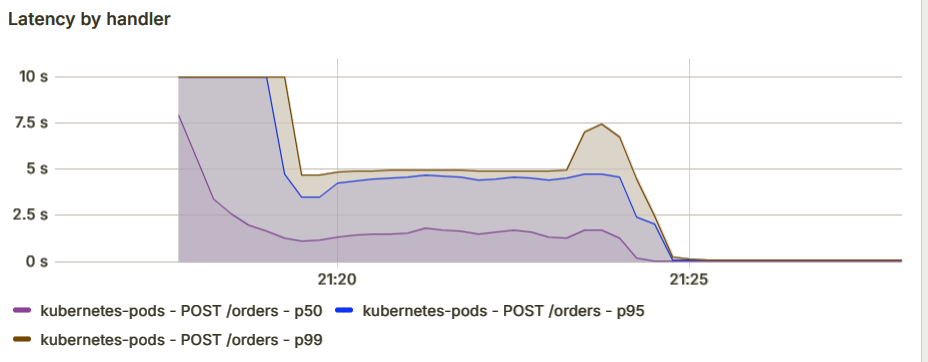
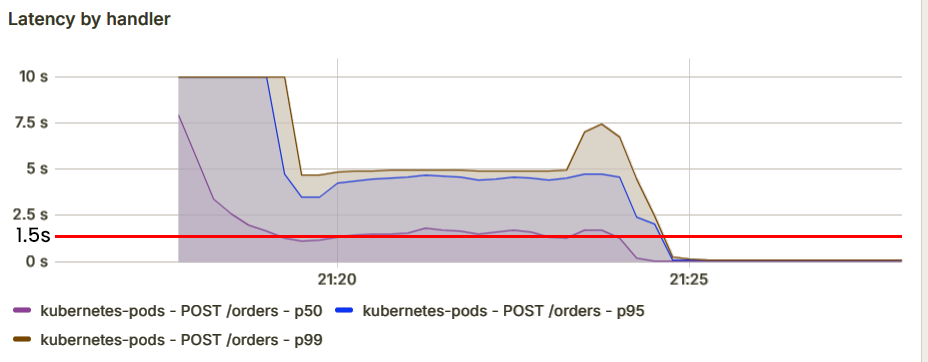
mantap

Changed region(s): [[0.0, 0.6381, 0.9688, 0.6685]]

diff --git a/document/src/chapters/chapter-4/analisis.tex b/document/src/chapters/chapter-4/analisis.tex
@@ -235,14 +235,7 @@ Kombinasi hal tersebut membuat \textit{cache hit} operasi ini rendah sehingga ti
 
 \subsection{Penggunaan Pengendalian Aliran}
 
-Gambar \ref{fig:latency-fc} dan Gambar \ref{fig:latency-nofc} menunjukkan perbedaan latensi pemrosesan antara sistem dengan pendendalian aliran dan tanpa pengendalian aliran. Saat berjalan dengan baik, latensi pemrosesan dengan pengendalian aliran dapat turun hingga ratusan milisekon.
-
-\begin{figure}[H]
-    \centering
-    \includegraphics[width=1\textwidth]{resources/chapter-4/latency-fc-pg-stress-0.png}
-    \caption{Latensi Pemrosesan dengan Pengendalian Aliran}
-    \label{fig:latency-fc}
-\end{figure}
+Gambar \ref{fig:latency-nofc} menunjukkan latensi pemrosesan pesanan sistem tanpa pengendalian aliran. Perhatikan garis berwarna ungu (dan garis merah). Rata-rata latensi operasi tersebut sekitar 1,5 detik.
 
 \begin{figure}[H]
     \centering
@@ -251,7 +244,16 @@ Gambar \ref{fig:latency-fc} dan Gambar \ref{fig:latency-nofc} menunjukkan perbed
     \label{fig:latency-nofc}
 \end{figure}
 
-Selanjutnya, perhatikan laju pemrosesan berdasarkan kode respons sebagaimana ditunjukkan pada Gambar \ref{fig:rps-fc-pg-stress-0} dan Gambar \ref{fig:rps-nofc-pg-stress-0}. Meskipun memiliki latensi yang lebih tinggi, laju pemrosesan puncak varian ini sama dengan laju pemrosesan puncak pada sistem referensi. Oleh karena itu, latensi yang tinggi tidak serta merta membuat laju pemrosesan lebih lambat.
+Selanutnya, Gambar \ref{fig:latency-fc} menunjukkan latensi pemrosesan pesanan sistem dengan pengendalian aliran. Saat berjalan baik (garis ungu landai), latensip emrosesan berada pada angka ratusan milisekon. Meskipun begitu, rata-rata latensi pemrosesan ini pada banyak waktu berada di atas 10 detik.
+
+\begin{figure}[H]
+    \centering
+    \includegraphics[width=1\textwidth]{resources/chapter-4/latency-fc-pg-stress-0.png}
+    \caption{Latensi Pemrosesan dengan Pengendalian Aliran}
+    \label{fig:latency-fc}
+\end{figure}
+
+Selanjutnya, perhatikan laju pemrosesan berdasarkan kode respons sebagaimana ditunjukkan pada Gambar \ref{fig:rps-fc-pg-stress-0} dan Gambar \ref{fig:rps-nofc-pg-stress-0}. Pada Gambar \ref{fig:rps-fc-pg-stress-0}, puncak laju pemrosesan adalah 550 rps (perhatikan puncak garis berwarna ungu). Pada Gambar \ref{fig:rps-nofc-pg-stress-0}, puncak laju pemrosesan adalah 570 rps (perhatikan puncak garis berwarna ungu). Meskipun memiliki latensi yang lebih tinggi, laju pemrosesan puncak varian ini sama dengan laju pemrosesan puncak pada sistem referensi. Oleh karena itu, latensi yang tinggi tidak serta merta membuat laju pemrosesan lebih lambat.
 
 \begin{figure}[H]
     \centering
@@ -294,23 +296,27 @@ Meskipun implementasi sistem antrean kurang optimal, terdapat beberapa hal posit
     \end{tabular}
 \end{table}
 
-Tidak ada perbedaan latensi pada operasi tulis. Meskipun begitu, latensi untuk \textit{lock} kursi pada varian dengan pengendalian aliran jauh lebih kecil. Selanjutnya, mari bandingkan latensi pemrosesan pesanan saat kode respons 409 berdasarkan Gambar \ref{fig:latency-by-code-nofc} dan Gambar \ref{fig:latency-by-code-fc}.
+Tidak ada perbedaan latensi pada operasi tulis (InsertOrder, InsertIssuedTiket, dan InsertInvoice). Meskipun begitu, latensi untuk \textit{lock} kursi (LockFreeStandingSeats) pada varian dengan pengendalian aliran jauh lebih kecil.
+
+Selanjutnya, mari bandingkan latensi pemrosesan pesanan saat kode respons 409 berdasarkan Gambar \ref{fig:latency-by-code-nofc} dan Gambar \ref{fig:latency-by-code-fc}.
 
 \begin{figure}[H]
     \centering
-    \includegraphics[width=0.7\textwidth]{resources/chapter-4/latency-by-code-nofc-pg-stress-0.png}
+    \includegraphics[width=1\textwidth]{resources/chapter-4/latency-by-code-nofc-pg-stress-0.png}
     \caption{Latensi Berdasarkan Status Kode tanpa Pengendalian Aliran}
     \label{fig:latency-by-code-nofc}
 \end{figure}
 
 \begin{figure}[H]
     \centering
-    \includegraphics[width=0.7\textwidth]{resources/chapter-4/latency-by-code-fc-pg-stress-0.png}
+    \includegraphics[width=1\textwidth]{resources/chapter-4/latency-by-code-fc-pg-stress-0.png}
     \caption{Latensi Berdasarkan Status Kode dengan Pengendalian Aliran}
     \label{fig:latency-by-code-fc}
 \end{figure}
 
-Efektivitas strategi penolakan lebih awal terlihat jelas saat membandingkan latensi untuk permintaan yang ditolak (kode status 409). Pada Gambar \ref{fig:latency-by-code-nofc} (tanpa pengendalian aliran), latensi untuk kode 409 (tumpang tindih dengan area abu-abu) berkisar antara 1-2 detik (1000-2000 ms). Sebaliknya, pada Gambar \ref{fig:latency-by-code-fc} (dengan pengendalian aliran), grafik menunjukkan bahwa latensi untuk kode 409 (garis biru pada legenda) secara konsisten berada di bawah 100 ms. Ini secara visual membuktikan bahwa permintaan yang ditakdirkan gagal dapat ditolak secara signifikan lebih cepat, sebelum membebani basis data.
+Gambar \ref{fig:latency-by-code-nofc} menunjukkan rata-rata latensi permintaan pesanan pada varian tanpa pengendalian aliran yang ditolak (kode status 409) sebesar 2 detik. Selanjutnya, Gambar \ref{fig:latency-by-code-fc} menunjukkan rata-rata ltensi permintaan pada varian dengan pengenalian aliran yang ditolak (kode status 409) sebesar 50 milisekon hingga 100 milisekon (\textit{most of the time}).
+
+Efektivitas strategi penolakan lebih awal terlihat jelas saat membandingkan latensi untuk permintaan yang ditolak (kode status 409). Perbedaan latensi ini membuktikan bahwa permintaan yang ditakdirkan gagal dapat ditolak secara signifikan lebih cepat, sebelum membebani basis data.
 
 Hal ini menunjukkan perbedaan yang signifikan karena pesanan yang pada akhirnya akan ditolak menjadi ditolak lebih awal. Latensi tanpa \textit{early dropper} lebih tinggi karena pesanan baru akan ditolak saat sudah memasuki basis data. Selain memiliki latensi yang lebih tinggi, kasus ini juga dapat membebani basis data lebih jauh.
 
@@ -328,7 +334,7 @@ Pengoptimalan baca dengan menggunakan Redis memungkinkan terjadinya ketidakcocok
     \item Tidak ada kursi yang terjual lebih dari satu kali.
 \end{enumerate}
 
-Gambar \ref{fig:sanity-f2t3}, Gambar \ref{fig:sanity-f3t1}, dan Gambar \ref{fig:sanity-f5t4} menunjukkan sampel hasil \textit{sanity check} selama pelaksanaan pengujian.
+Gambar \ref{fig:sanity-f2t3}, Gambar \ref{fig:sanity-f3t1}, dan Gambar \ref{fig:sanity-f5t4} menunjukkan sampel hasil \textit{sanity check} selama pelaksanaan pengujian. Garis yang tidak pada angka nol menunjukkan ketidaksesuaian data.
 
 \begin{figure}[H]
     \centering
@@ -351,4 +357,4 @@ Gambar \ref{fig:sanity-f2t3}, Gambar \ref{fig:sanity-f3t1}, dan Gambar \ref{fig:
     \label{fig:sanity-f5t4}
 \end{figure}
 
-Berdasarkan sampel di atas, terdapat beberapa waktu terjadinya ketidaksesuaian data yang pada akhirnya konsisten. Setelah ditelusuri, hal tersebut terjadi karena masalah pada pengumpulan data yang mengalami kegagalan memperoleh data yang lengkap. Hal ini didukung dengan fakta bahwa selisih nilainya memang sangat ekstrem. Oleh karena itu, dapat disimpulkan bahwa implementasi yang ada sekarang telah menjamin kesesuaian data dan berhasil menjamin bahwa tidak ada kursi yang terjual lebih dari satu kali.
+Berdasarkan sampel di atas, terdapat beberapa waktu terjadinya ketidaksesuaian data yang pada akhirnya konsisten (Gambar \ref{fig:sanity-f2t3} dan Gambar \ref{fig:sanity-f3t1} pada grafik kiri). Setelah ditelusuri, hal tersebut terjadi karena masalah pada pengumpulan data yang mengalami kegagalan memperoleh data yang lengkap. Hal ini didukung dengan fakta bahwa selisih nilainya memang sangat ekstrem. Mengingat sepanjang waktu setiap grafik tersebut landai dan berada pada angka nol, dapat disimpulkan bahwa tidak terjadi ketidaksesuaian data pada sistem. Oleh karena itu, dapat disimpulkan bahwa implementasi yang ada sekarang telah menjamin kesesuaian data dan berhasil menjamin bahwa tidak ada kursi yang terjual lebih dari satu kali.

diff --git a/document/src/chapters/chapter-4.tex b/document/src/chapters/chapter-4.tex
@@ -8,6 +8,4 @@
 
 \input{chapters/chapter-4/analisis.tex}
 
-\pagebreak
-
 \input{chapters/chapter-4/diskusi.tex}
